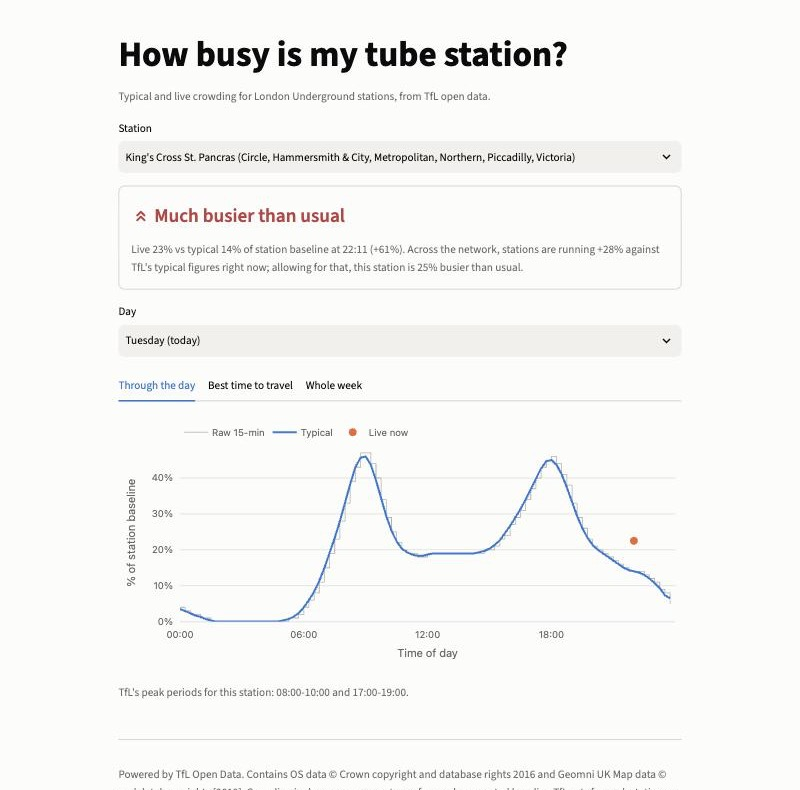
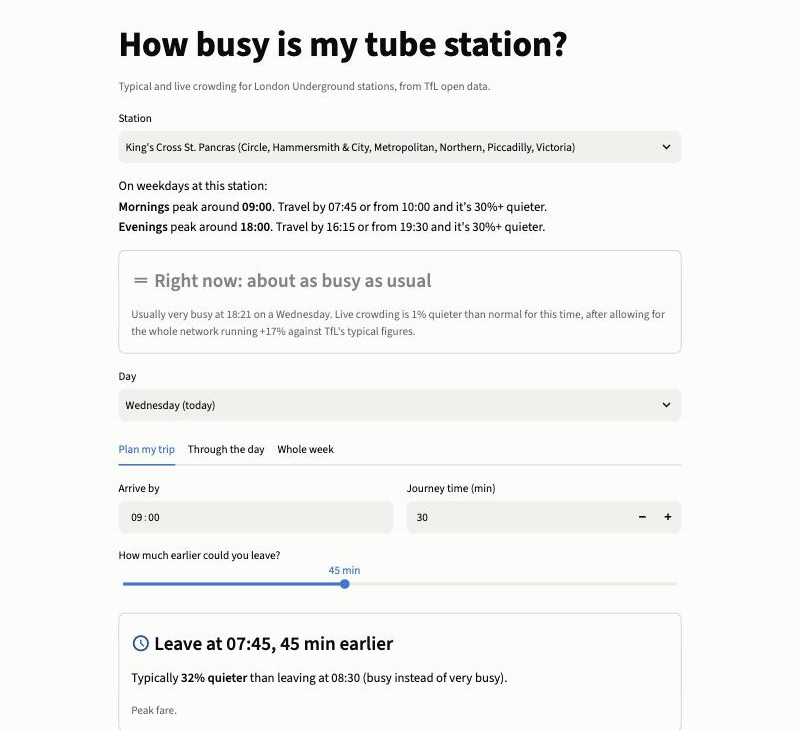
Rewrite README for the trip planner; update screenshots and ideas list

diff --git a/README.md b/README.md
@@ -2,148 +2,88 @@
 
 [![CI](https://github.com/patrickridge/tube-crowding/actions/workflows/ci.yml/badge.svg)](https://github.com/patrickridge/tube-crowding/actions/workflows/ci.yml)
 
-**Live app:** LIVE_URL
+Live app: https://tube-crowding.streamlit.app
 
-Pick a London Underground station and see how busy it usually is through the day and week,
-whether it's busier or quieter than normal right now, and the least crowded time to set off
-within a window you choose. Built on TfL's open crowding data, and designed for a phone.
+A small web app for London commuters. Pick a station and it tells you:
+
+- when it's usually busiest on weekdays, and how early or late you'd need to travel to avoid the worst of it
+- whether it's busier or quieter than normal right now
+- if you have to arrive by a certain time, whether leaving 15, 30 or 45 minutes earlier is actually worth it, and whether it changes your fare
+
+It uses TfL's open crowding data.
 
 <p>
-  <img src="docs/screenshot-desktop.jpg" alt="Live verdict and typical day chart for King's Cross" width="560">
-  <img src="docs/screenshot-mobile.jpg" alt="Best time to travel on a phone" width="240">
+  <img src="docs/screenshot-desktop.jpg" alt="Station view for King's Cross" width="560">
+  <img src="docs/screenshot-mobile.jpg" alt="Trip planner on a phone" width="240">
 </p>
 
-## Why I built it
+## Why
 
-I've just moved to London and quickly learnt that a 15-minute shift in when you leave can be
-the difference between a seat and a crush. TfL publishes the data to answer that, but only as
-raw JSON. This project takes that messy source all the way to a deployed, tested product:
-API client → typed models → pure analysis functions → UI.
-
-## Features
-
-- **Station search** across all 270 tube stations. Names that appear twice (Hammersmith,
-  Edgware Road, Paddington) are told apart by their lines.
-- **Live vs typical:** a plain-English verdict ("busier than usual") with the numbers behind it.
-- **Typical day:** crowding in 15-minute bands, raw and smoothed, with the live reading marked.
-- **Best time to travel:** give a window (e.g. leaving 07:30–09:30) and get the quietest
-  departure and how much quieter it is than the busiest one. Windows across midnight work.
-- **Week heatmap:** day of week × time of day.
-- The selected station is kept in the URL, so a view can be shared.
+I moved to London recently. Everyone knows the tube is busy at 8:30, but I couldn't find out how much quieter it gets if I leave a bit earlier, or whether it's worth it at my station. TfL publishes the data needed to answer that, so I built this.
 
 ## How it works
 
-### The data
-`GET /crowding/{naptan}` returns typical crowding for each day of the week in 96
-fifteen-minute bands. `GET /crowding/{naptan}/Live` returns the latest reading on the same
-scale. Values are a **fraction of a baseline TfL sets per station**. TfL doesn't document the
-baseline, so the app only ever compares a station with itself. Full findings from exploring the
-API, including coverage and quirks, are in [docs/DATA_NOTES.md](docs/DATA_NOTES.md).
+**Data.** `GET /crowding/{station}` gives typical crowding for each day of the week in 15-minute bands. `GET /crowding/{station}/Live` gives the latest reading. Both are a fraction of a baseline that TfL sets per station but doesn't document. Because of that, I show everything as a percentage of the station's own busiest 15 minutes of the week, and never compare one station with another. More detail on the API, and what I found while exploring it, is in [docs/DATA_NOTES.md](docs/DATA_NOTES.md).
 
-### Smoothing
-TfL rounds every band to 0.01. For a quiet station peaking at 0.10, that's a 10% step, so the
-raw profile looks jagged. I apply a **centred 3-band (45-minute) moving average**. It is short
-enough not to move the peaks and long enough to remove the rounding noise. At the ends of the
-day the window shrinks instead of wrapping into a different day. The raw values are still
-drawn faintly behind the smoothed line, so nothing is hidden.
+**Smoothing.** TfL rounds values to 0.01, which makes quiet stations look jagged. I use a 45-minute moving average (each band averaged with its neighbours). The raw values are still drawn on the chart.
 
-### Best time to travel
-Each departure slot in your window is scored with the smoothed typical crowding for that band.
-The recommendation is the slot with the **lowest** score; ties go to the earlier slot, which is
-the safer advice. "Quieter by" compares it with the busiest slot in the same window:
-`(busiest − quietest) / busiest`. If the window crosses midnight, the slots after midnight use
-the next day's profile. The numbers behind the recommendation are one tap away.
+**Weekday summary.** I average Monday to Friday, find the busiest band in the morning (04:00–12:00) and the evening, then find the nearest times either side where it's at least 30% quieter.
 
-### Live vs typical, and the network adjustment
-The naive comparison is `live / typical` for the current 15-minute band. While building this I
-found that live readings run **above** typical across the whole network. On the evening I
-measured, the median ratio over 42 stations was 1.27, most likely because the typical profiles
-predate current ridership. Taken at face value, almost every station would read "busier than
-usual" every evening.
+**Trip planner.** Your latest departure is your arrival time minus the journey time. Each 15-minute slot between that and how early you're willing to leave gets compared with leaving at the last minute. The app recommends the quietest slot. If two slots are equally quiet, it picks the later one, so you don't leave early for nothing. Each slot is also marked peak or off-peak: TfL charges peak fares Monday to Friday, 06:30–09:30 and 16:00–19:00.
 
-So the app samples 16 busy stations across lines and zones (fetched in parallel, cached for 5
-minutes) and takes the **median** live/typical ratio as a network factor. Each station's verdict
-uses `ratio / network factor`: is this station unusual *compared with how the whole network is
-behaving right now*? The median stops one station with an event from skewing the factor. The
-raw ratio is always shown alongside. Within ±10% counts as "usual". These thresholds are a
-judgement call, not a calibrated model.
+**Live vs usual.** I compare the live reading with the typical value for the same 15-minute band. While building this I noticed that live readings were above typical at almost every station. On the first evening, the median across 42 stations was 1.27x, so on the raw numbers everywhere looked "busier than usual". To correct for that, the app checks 16 big stations, takes the median live/typical ratio, and divides it out. A station is only called busier than usual if it's busier than the rest of the network right now. Anything within 10% counts as normal. That threshold is my own choice, not something fitted to data.
 
 ## Limitations
 
-- **Typical patterns are historical averages, not a forecast of today.** They don't know about
-  strikes, engineering works, events or the weather.
-- Values are relative to an undocumented per-station baseline. They **can't be compared across
-  stations** as crowd sizes.
-- Crowding is measured at station level, not per platform, line or carriage.
-- 17 of 270 tube stations have no usable data (e.g. Arsenal, Pimlico, Monument). TfL publishes
-  no crowding data for the Elizabeth line, Overground or DLR.
-- The live reading lags real time by a few minutes and refreshes about every 5 minutes.
+- Typical patterns are averages from the past. They don't know about strikes, events or the weather.
+- TfL measures people entering and leaving the station, not how full the trains are. It can't tell you if you'll get a seat.
+- Numbers can't be compared between stations.
+- 17 of the 270 tube stations have no data (e.g. Arsenal, Pimlico, Monument). There's no crowding data for the Elizabeth line, Overground or DLR.
+- The fare flag ignores public holidays, and the rule that evening trips into Zone 1 from outside it are off-peak.
 
-## Run it locally
+## Running it locally
 
-Needs Python 3.11+.
+Needs Python 3.11 or newer.
 
 ```bash
 git clone https://github.com/patrickridge/tube-crowding.git
 cd tube-crowding
 python -m venv .venv && source .venv/bin/activate
 pip install -r requirements-dev.txt
-cp .env.example .env   # optional: add a free key from api-portal.tfl.gov.uk
+cp .env.example .env    # optional: add a free key from api-portal.tfl.gov.uk
 streamlit run app.py
 ```
 
-Without a key the app still works, but TfL's anonymous rate limit is low. A free key gives
-500 requests per minute.
+It works without a key, but TfL's anonymous rate limit is low.
 
-## Tests and checks
+## Tests
 
 ```bash
-pytest          # 53 tests: logic, parsing against saved real API responses, chart smoke tests
-ruff check .    # lint
-ruff format --check .
+pytest
+ruff check .
 ```
 
-No test touches the network. Client tests use real TfL responses saved in `tests/fixtures/`,
-including the awkward ones (unknown station, all-zero profile, duplicated bands). HTTP failures
-are simulated with a fake session. GitHub Actions runs all of this on every push.
+The tests don't touch the network. The API client is tested against real responses saved in `tests/fixtures/`, including the awkward ones (unknown station, all-zero data, duplicated bands). GitHub Actions runs the tests and the linter on every push.
 
-## Project structure
+## Code layout
 
 ```
-app.py                  Streamlit UI only: layout, caching, user-facing messages
-tube/models.py          Typed dataclasses (Station, DayProfile, WeekProfile, LiveReading)
-tube/client.py          TfL HTTP client + parsing into models; every failure becomes a friendly TflError
-tube/logic.py           Pure functions: smoothing, best time, live vs typical, network factor
-tube/charts.py          Plotly figure builders (no Streamlit)
-tube/stations.py        Loads the static station list
-tube/config.py          Reads the API key from the environment or .env
-scripts/build_stations.py   Regenerates data/stations.csv from the TfL StopPoint API
-tests/                  pytest suite + saved API fixtures
-docs/DATA_NOTES.md      What I found exploring the API
+app.py              Streamlit page
+tube/client.py      TfL API calls, and parsing the JSON into the types in models.py
+tube/models.py      Station, DayProfile, WeekProfile, LiveReading
+tube/logic.py       Smoothing, peaks, trip planner, live vs usual (no Streamlit, no network)
+tube/charts.py      Plotly charts
+tube/stations.py    Loads data/stations.csv (rebuilt by scripts/build_stations.py)
+tests/              pytest
 ```
 
-The logic layer has no Streamlit and no network code, so it can be tested with small,
-hand-checkable numbers. Caching sits at the UI edge: typical profiles for 24 hours, live
-readings for 2 minutes, the network factor for 5 minutes.
+## What I'd do next
 
-## What I'd improve next
+1. Save the live readings every few minutes, to see how noisy they really are and set the "busier than usual" threshold from data.
+2. Use that history to forecast the next hour, e.g. "likely to get busier than usual by 08:15".
+3. Add both ends of a journey, so the planner also considers how busy your destination is when you arrive.
+4. Show line status next to the live reading, to explain unusual numbers.
 
-1. **Record live readings over time** to measure how noisy "live vs typical" really is, and
-   calibrate the "usual" thresholds from data instead of judgement.
-2. **A short-term forecast:** model the live deviation from typical (time of day, disruption,
-   weather, events) to say "likely to be busier than usual in 30 minutes".
-3. **Line status alongside the verdict** (TfL `/Line/Status`), so an unusually busy reading
-   comes with a likely reason.
-4. **Compare mode:** two stations side by side, comparing the *shape* of their days (since
-   absolute levels aren't comparable).
-5. **Journey view:** combine origin and destination crowding for a whole trip.
+## Data and licence
 
-More ideas are in [V2_IDEAS.md](V2_IDEAS.md).
-
-## Data source and licence
-
-Powered by TfL Open Data. Contains OS data © Crown copyright and database rights 2016 and
-Geomni UK Map data © and database rights [2019]. Used under TfL's
-[transport data terms](https://tfl.gov.uk/corporate/terms-and-conditions/transport-data-service),
-which are based on the Open Government Licence. Data comes only from the official Unified API;
-nothing is scraped. This is a learning project and is not affiliated with or endorsed by TfL.
+Powered by TfL Open Data. Contains OS data © Crown copyright and database rights 2016 and Geomni UK Map data © and database rights [2019]. Used under TfL's [transport data terms](https://tfl.gov.uk/corporate/terms-and-conditions/transport-data-service). Data comes only from the official API. This is a personal learning project and isn't affiliated with TfL.

diff --git a/V2_IDEAS.md b/V2_IDEAS.md
@@ -1,9 +1,9 @@
-# Version 2 ideas (not built in v1)
+# Ideas for later
 
-- Log live readings over time (a small scheduled job) to calibrate the "usual" thresholds and the network factor from data.
-- Short-term forecast: model live deviation from typical using time of day, line status, weather and events.
-- Show line status/disruptions next to the live verdict (`/Line/Mode/tube/Status`) to explain unusual readings.
-- Compare mode: two stations side by side, comparing the shape of their days (absolute levels aren't comparable).
-- Journey view: combine origin and destination crowding for a whole trip.
-- Suggest an alternative for stations with no data (e.g. Monument -> Bank).
-- Extend beyond the tube if TfL publishes crowding for Elizabeth line / Overground / DLR (currently none).
+- Save live readings every few minutes to measure how noisy they are and set the "busier than usual" threshold from data.
+- Forecast the next hour from that history.
+- Journey mode: include how busy the destination is when you arrive.
+- Line status next to the live reading.
+- Compare two stations by the shape of their day (levels can't be compared).
+- Suggest a nearby station when there's no data (e.g. Monument -> Bank).
+- Handle public holidays and the evening Zone 1 off-peak rule in the fare flag.
